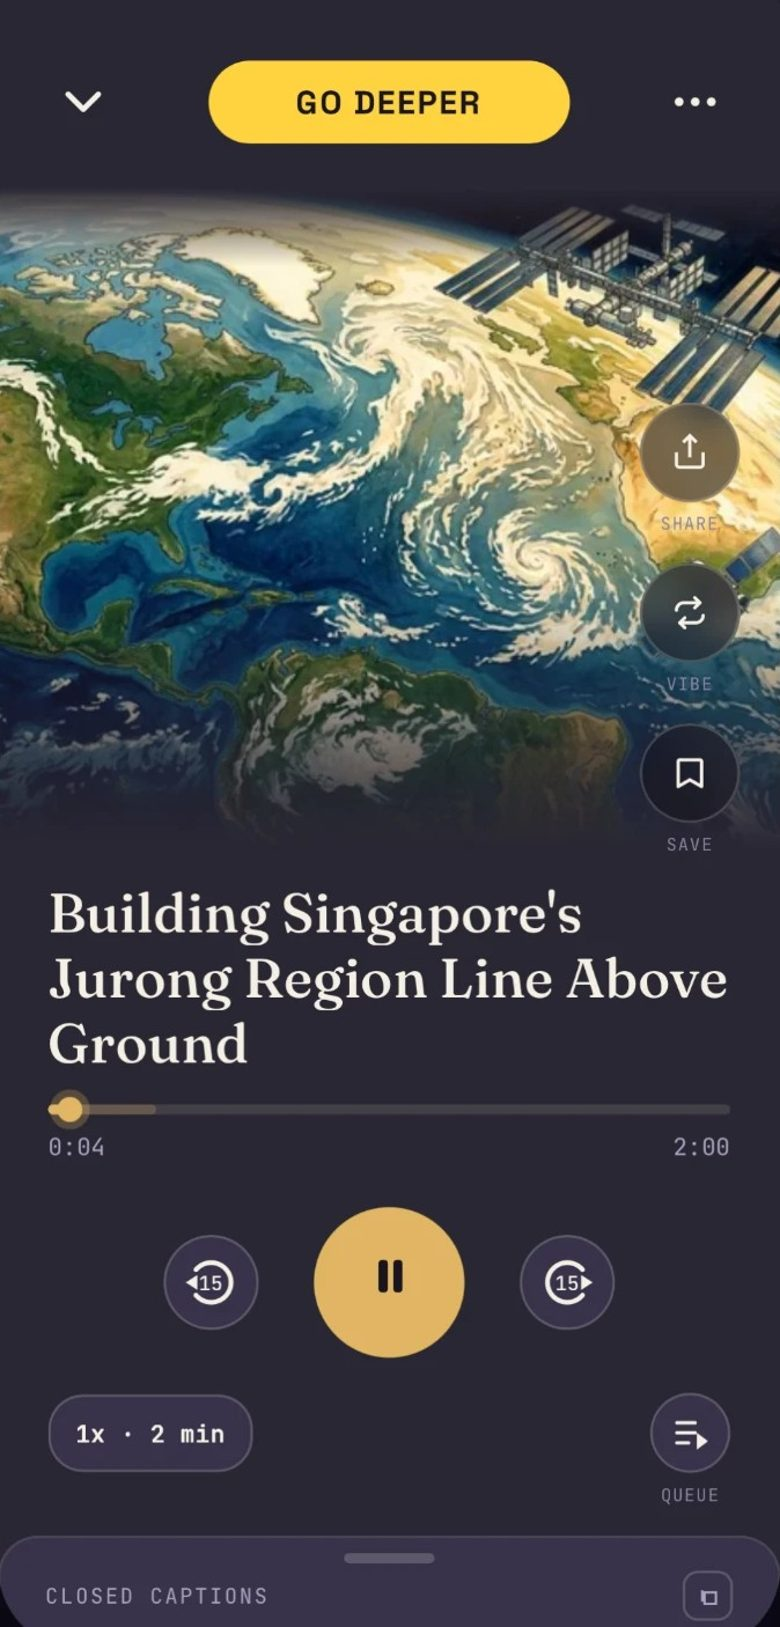
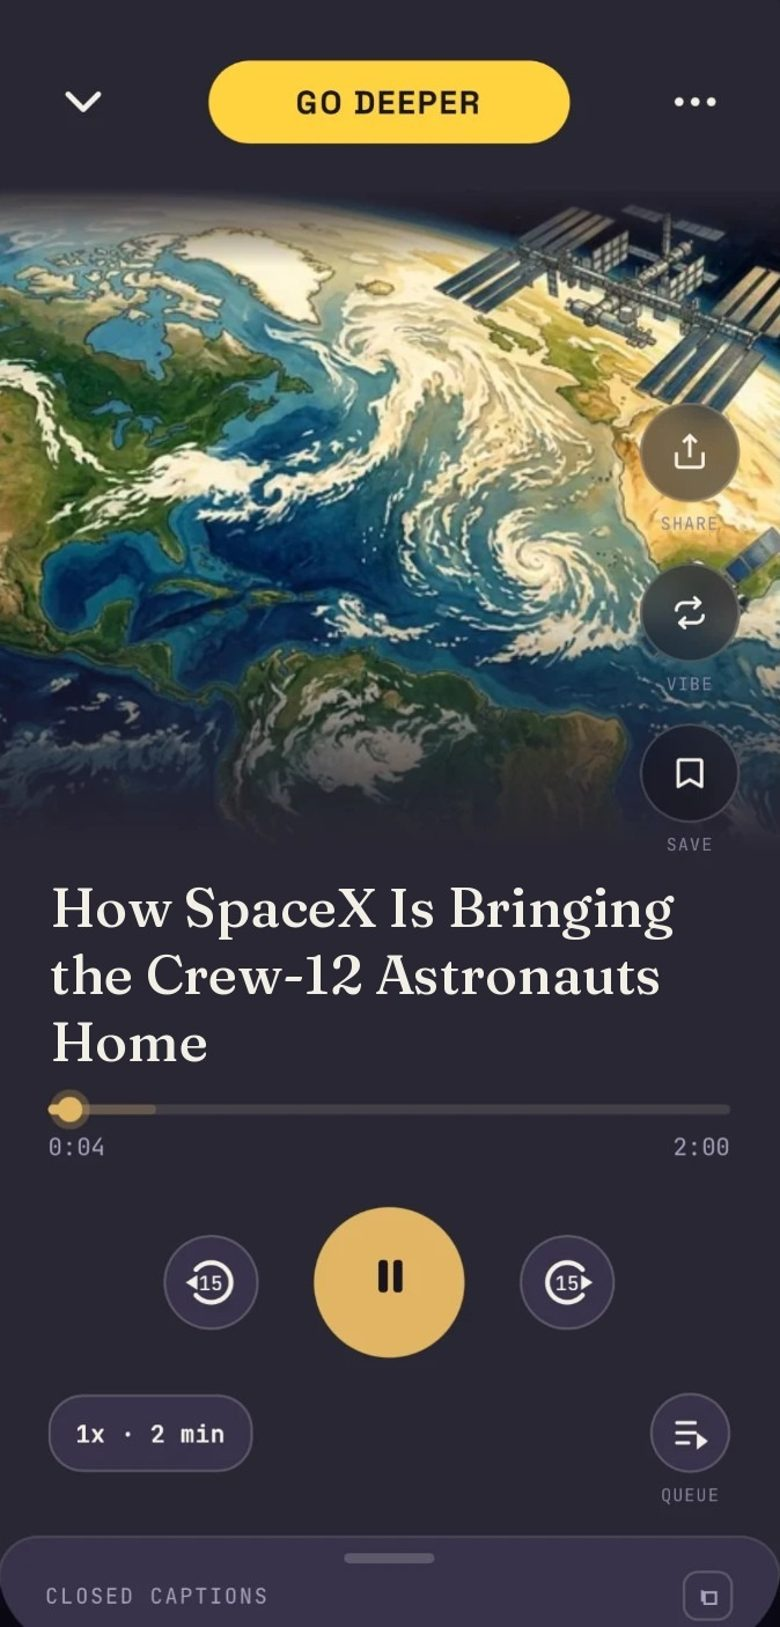
Landing: the player's title is a SpaceX story
Set over the screenshot's title in the app's own face and colour, at the
same size and line spacing.

Claude-Session: https://claude.ai/code/session_012Vq6mzdrY5Dqqw4BAjbhVg

Changed region(s): [[0.0615, 0.5224, 0.9231, 0.6761]]

diff --git a/tools/landing_shots.py b/tools/landing_shots.py
@@ -77,6 +77,9 @@ SHOTS = [
 
 #: name -> cut from a screenshot of the app, not photographed.
 STILLS = [
+    # Its title is set over the original in the app's own face (Fraunces
+    # 500, 47px, the title's colour), at the owner's direction: a SpaceX
+    # story in place of the one the screenshot happened to be playing.
     ("player", "the player on a real episode, from the owner's phone"),
 ]
 

diff --git a/PROBLEMS.md b/PROBLEMS.md
@@ -15215,7 +15215,8 @@ there is now a "What is FAM" section:
    the Morning mix has a cover (`tools/landing/morning-cover.jpg`, a drawn
    sunrise, set through the app's own cover PATCH). Behind Search is the
    player, cut from the owner's own screenshot (`tools/landing/stills/`),
-   since the preview has no episode with a painted picture. Each gold pill
+   since the preview has no episode with a painted picture; its title was
+   reset, in the app's own face, to a SpaceX story at the owner's direction. Each gold pill
    sits under its phone, never over the bottom of it. Nothing in the section
    plays. The listener-facing names are used (§185).
 3. Friends: share, vibe, topics, with the Friends page between a friend's vibe played as a story (left) and a friend's profile with their interests, public mixes and vibes (right).

diff --git a/PROBLEMS_INDEX.md b/PROBLEMS_INDEX.md
@@ -201,4 +201,4 @@ and `limit` = Lines.
 | 15099 | 48 | 195. The 10.2 packet: friends on DailyFAM, the chevron icon, Explore as pages, "Interested?", and Explore from search |
 | 15147 | 27 | 196. Signing in cut straight to DailyFAM, with nothing to say you had arrived |
 | 15174 | 20 | 197. The sign-in screen's samples play in place, and the guest door is withdrawn |
-| 15194 | 42 | 198. The waitlist page asked for an email without saying what FAM is |
+| 15194 | 43 | 198. The waitlist page asked for an email without saying what FAM is |
